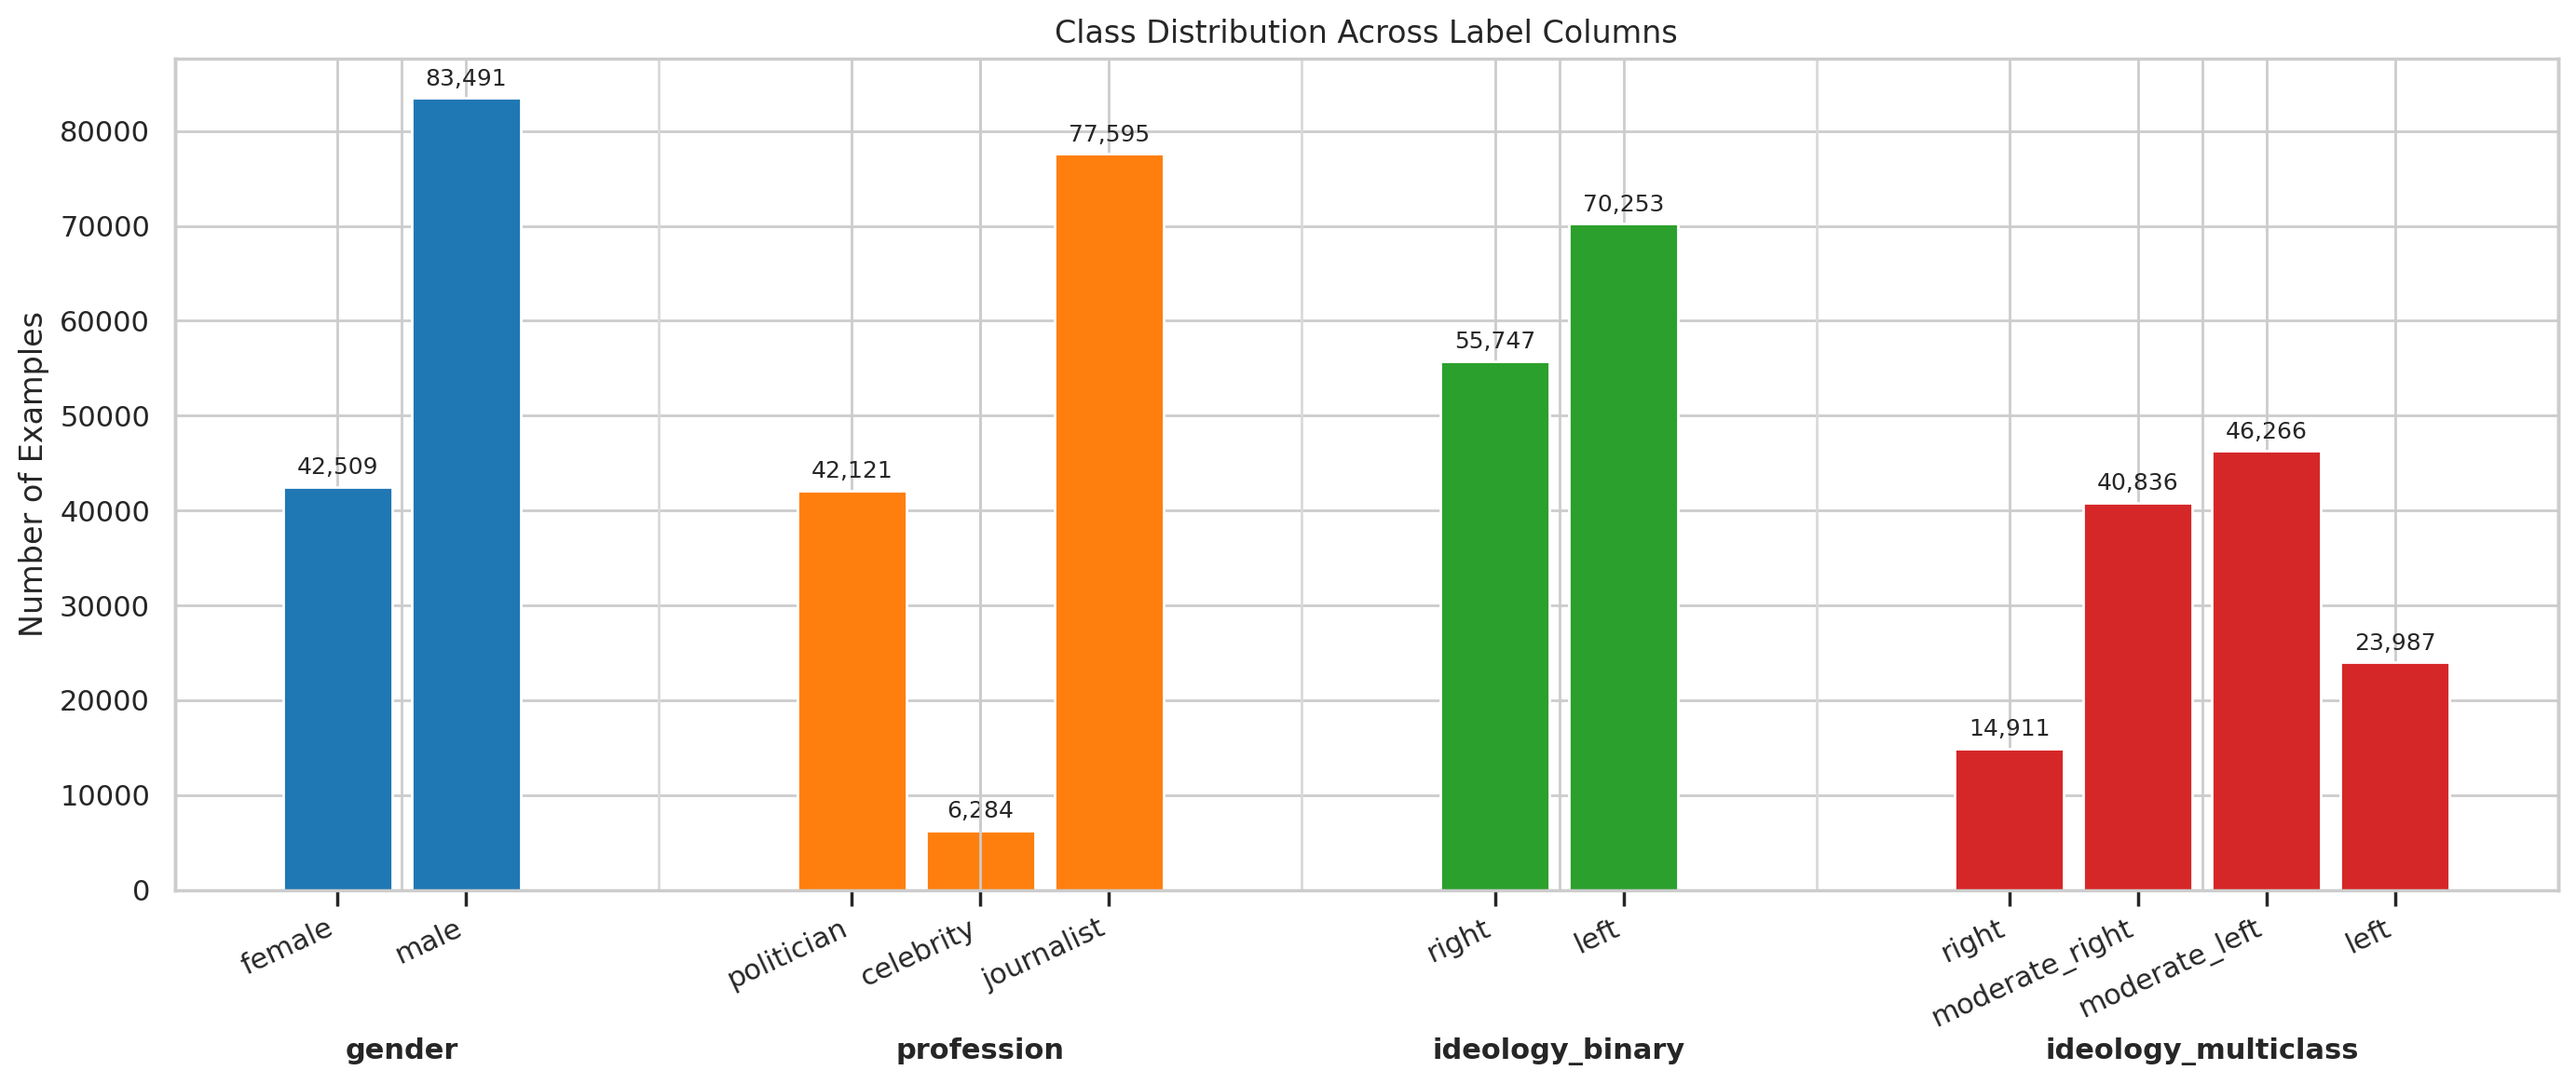
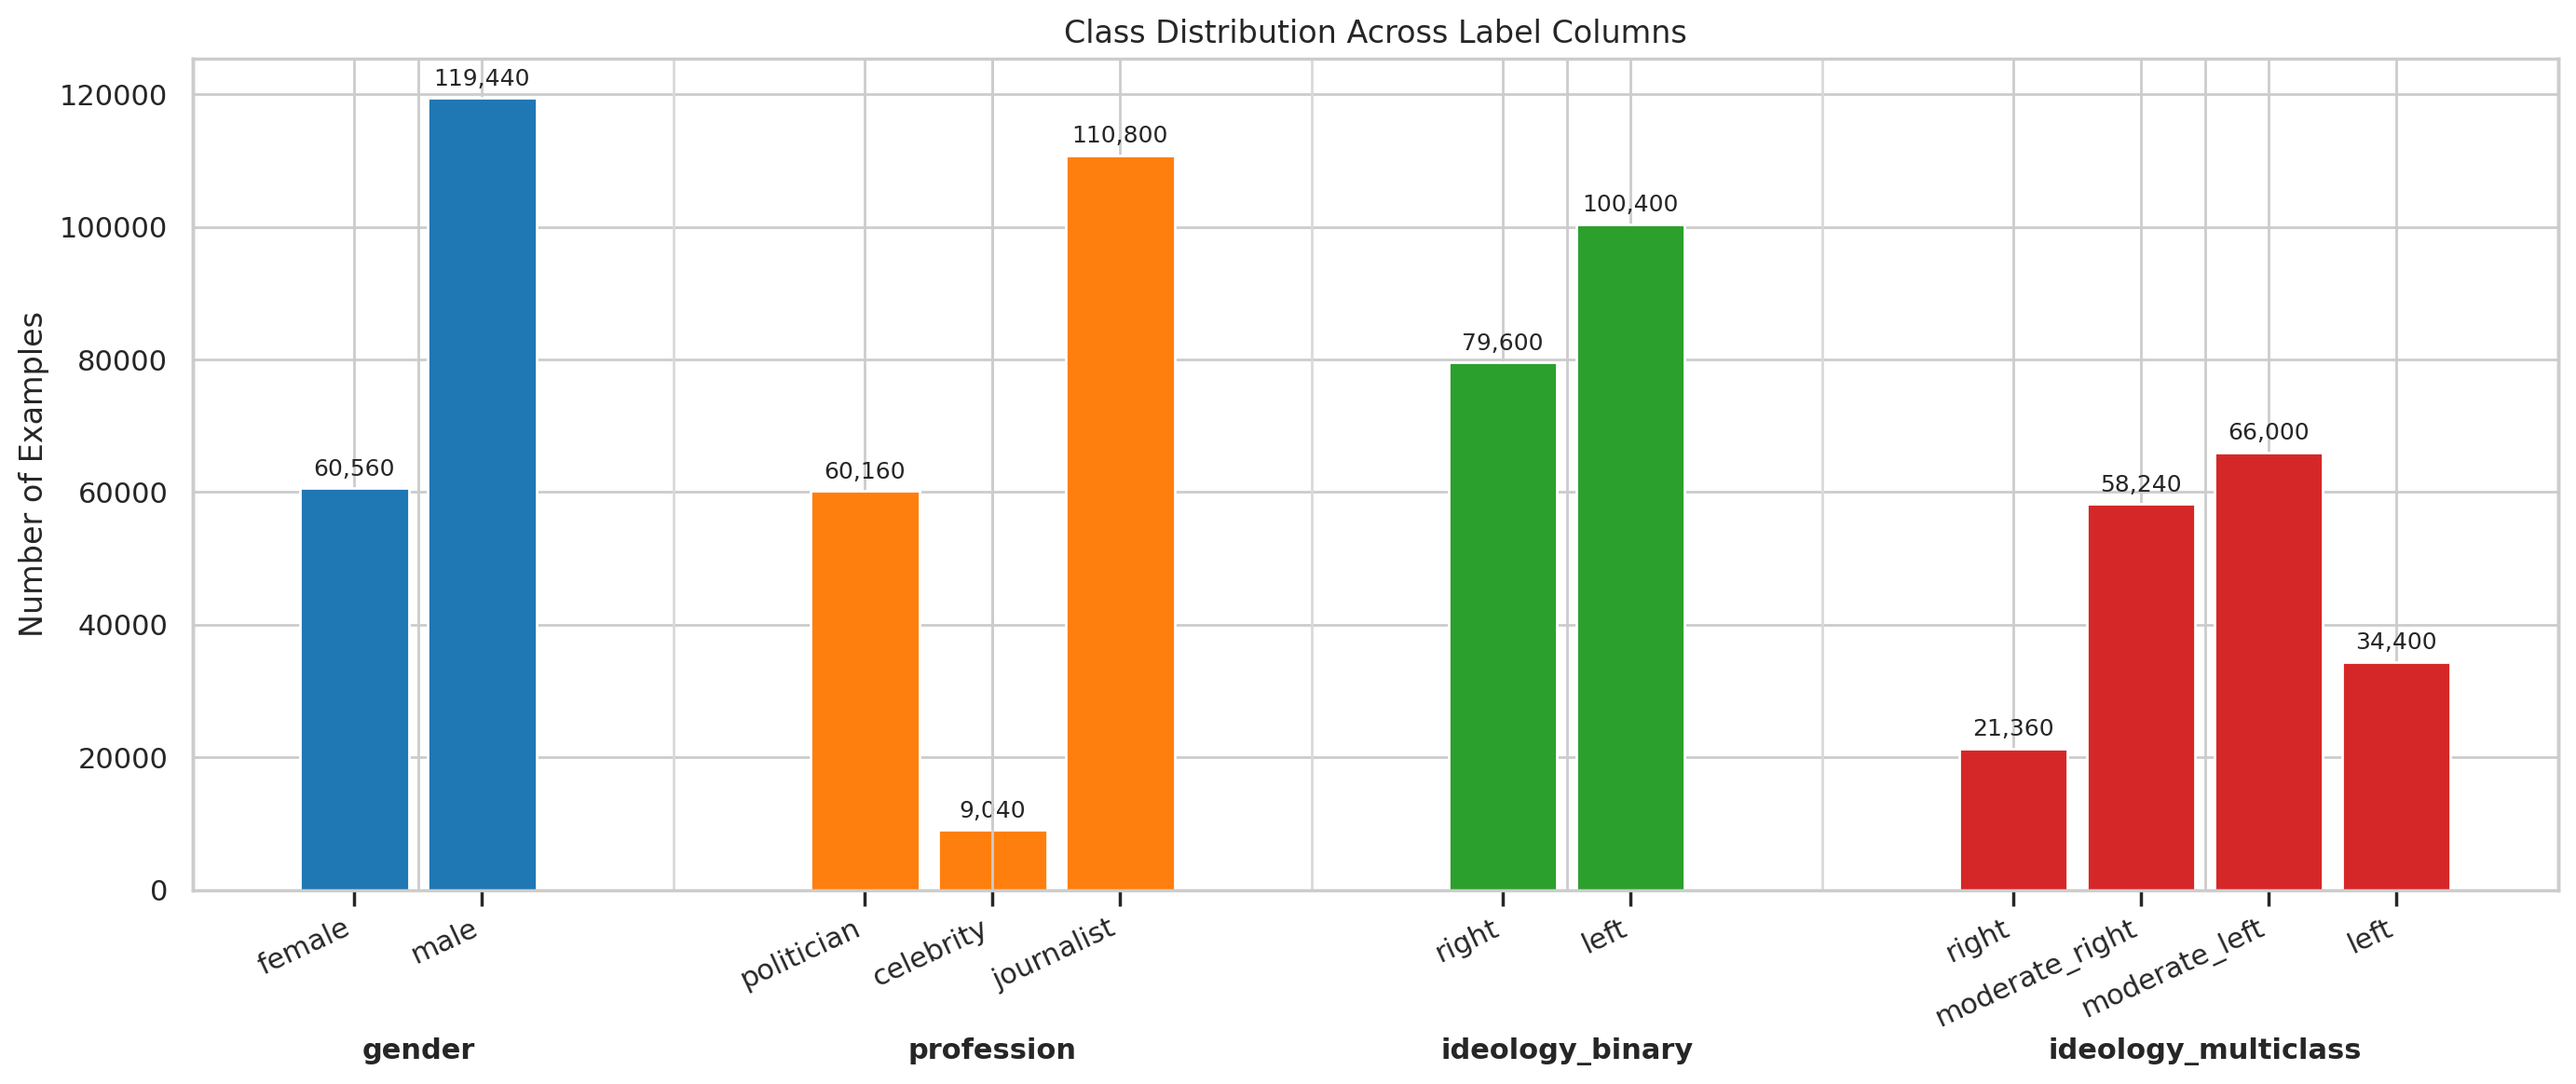
doc: update class distribution image and improve output messages in main.py

diff --git a/main.py b/main.py
@@ -265,7 +265,7 @@ def generate_wordcloud(xtrain: pd.DataFrame):
     clean_words = [w for w in words if len(w) > 2 and w not in stopwords]
 
     unique_clean_words = set(clean_words)
-    print("Número total de palabras únicas (sin stopwords):", len(unique_clean_words))
+    print("Total number of unique words (without stopwords):", len(unique_clean_words))
 
 
     df_unique = pd.DataFrame(list(unique_clean_words), columns=["word"])
@@ -306,9 +306,12 @@ def generate_wordcloud(xtrain: pd.DataFrame):
     return wordcloud
 
 if __name__ == "__main__":
-    xtrain, ytrain, *_ = get_data_splits()
+    xtrain, ytrain, _, yval, _, ytest = get_data_splits()
     print(f"{'-' * 35}")
-    analyze_class_distribution(ytrain, generate_plots=True)
+    # concatenate y matrices to analyze all labels together
+    print_data_info(ytrain)
+    print(f"{'-' * 35}")
+    analyze_class_distribution(pd.concat([ytrain, yval, ytest], ignore_index=True), generate_plots=True)
     print(f"{'-' * 35}")
     # Print text length statistics (from tweets column, which corresponds to the last column)
     text_lengths = xtrain.dropna().apply(len)
